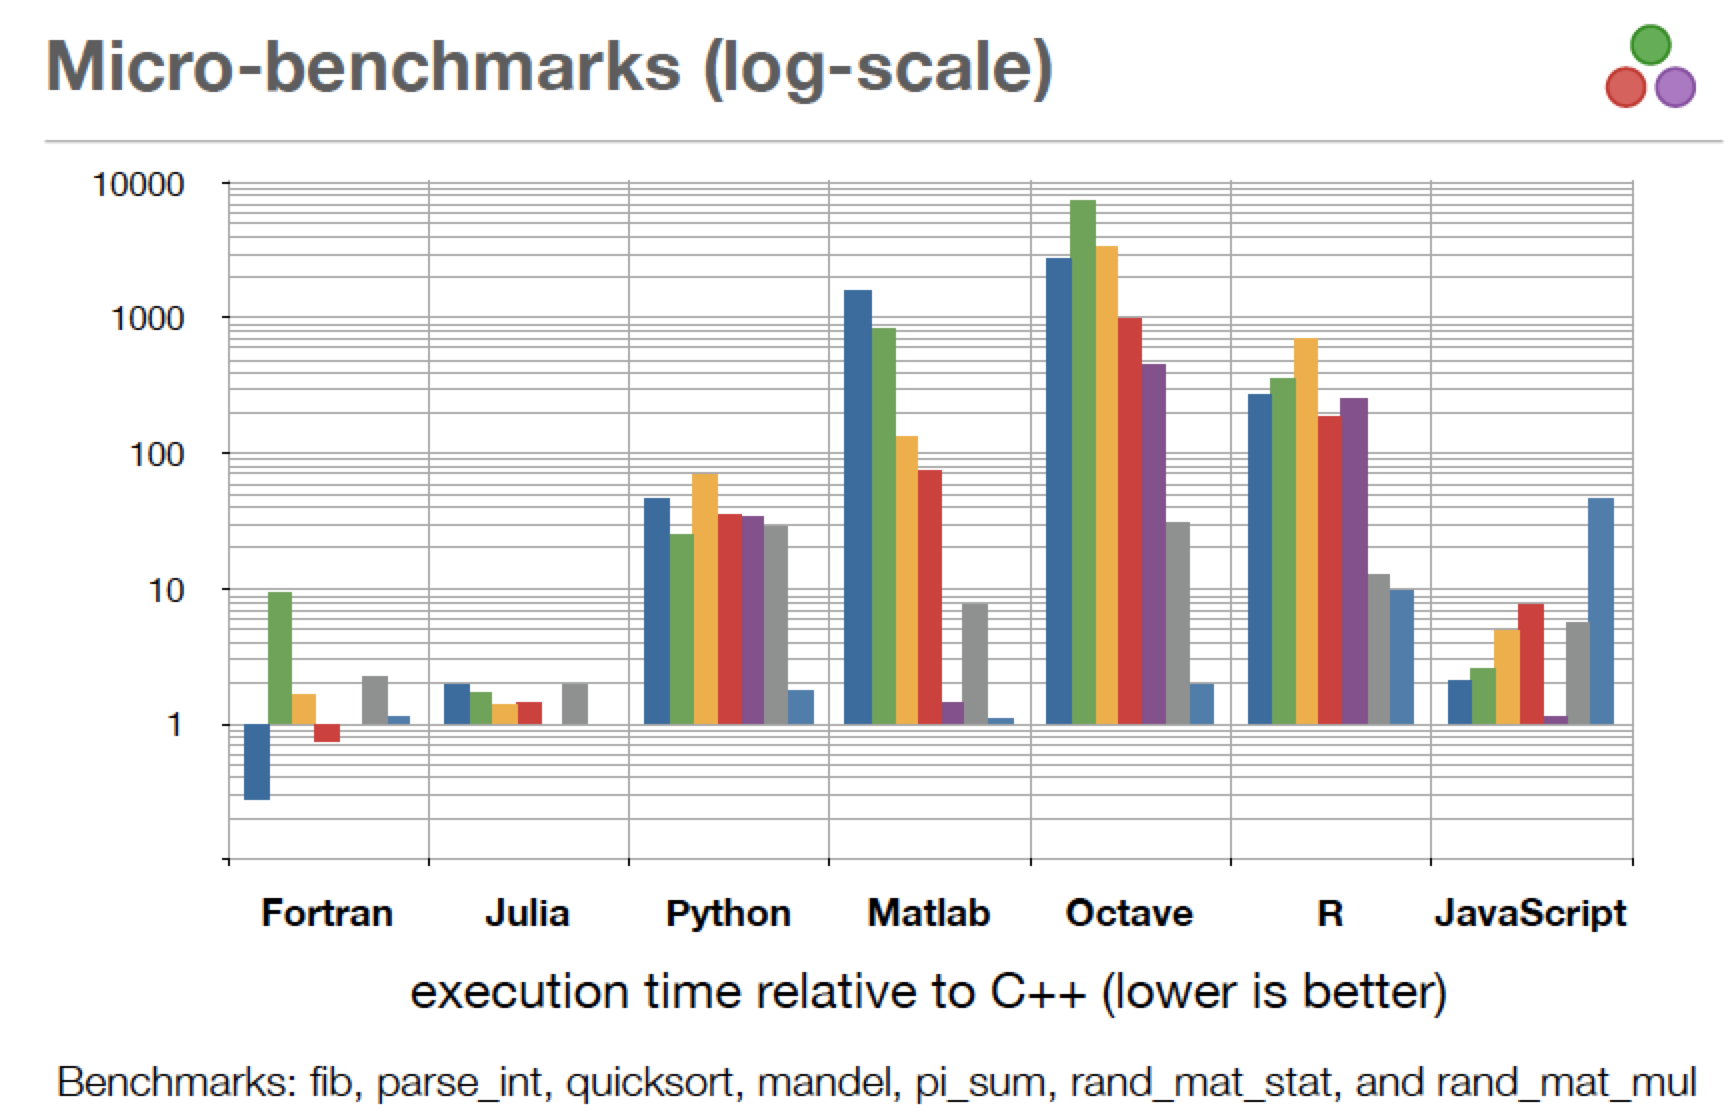
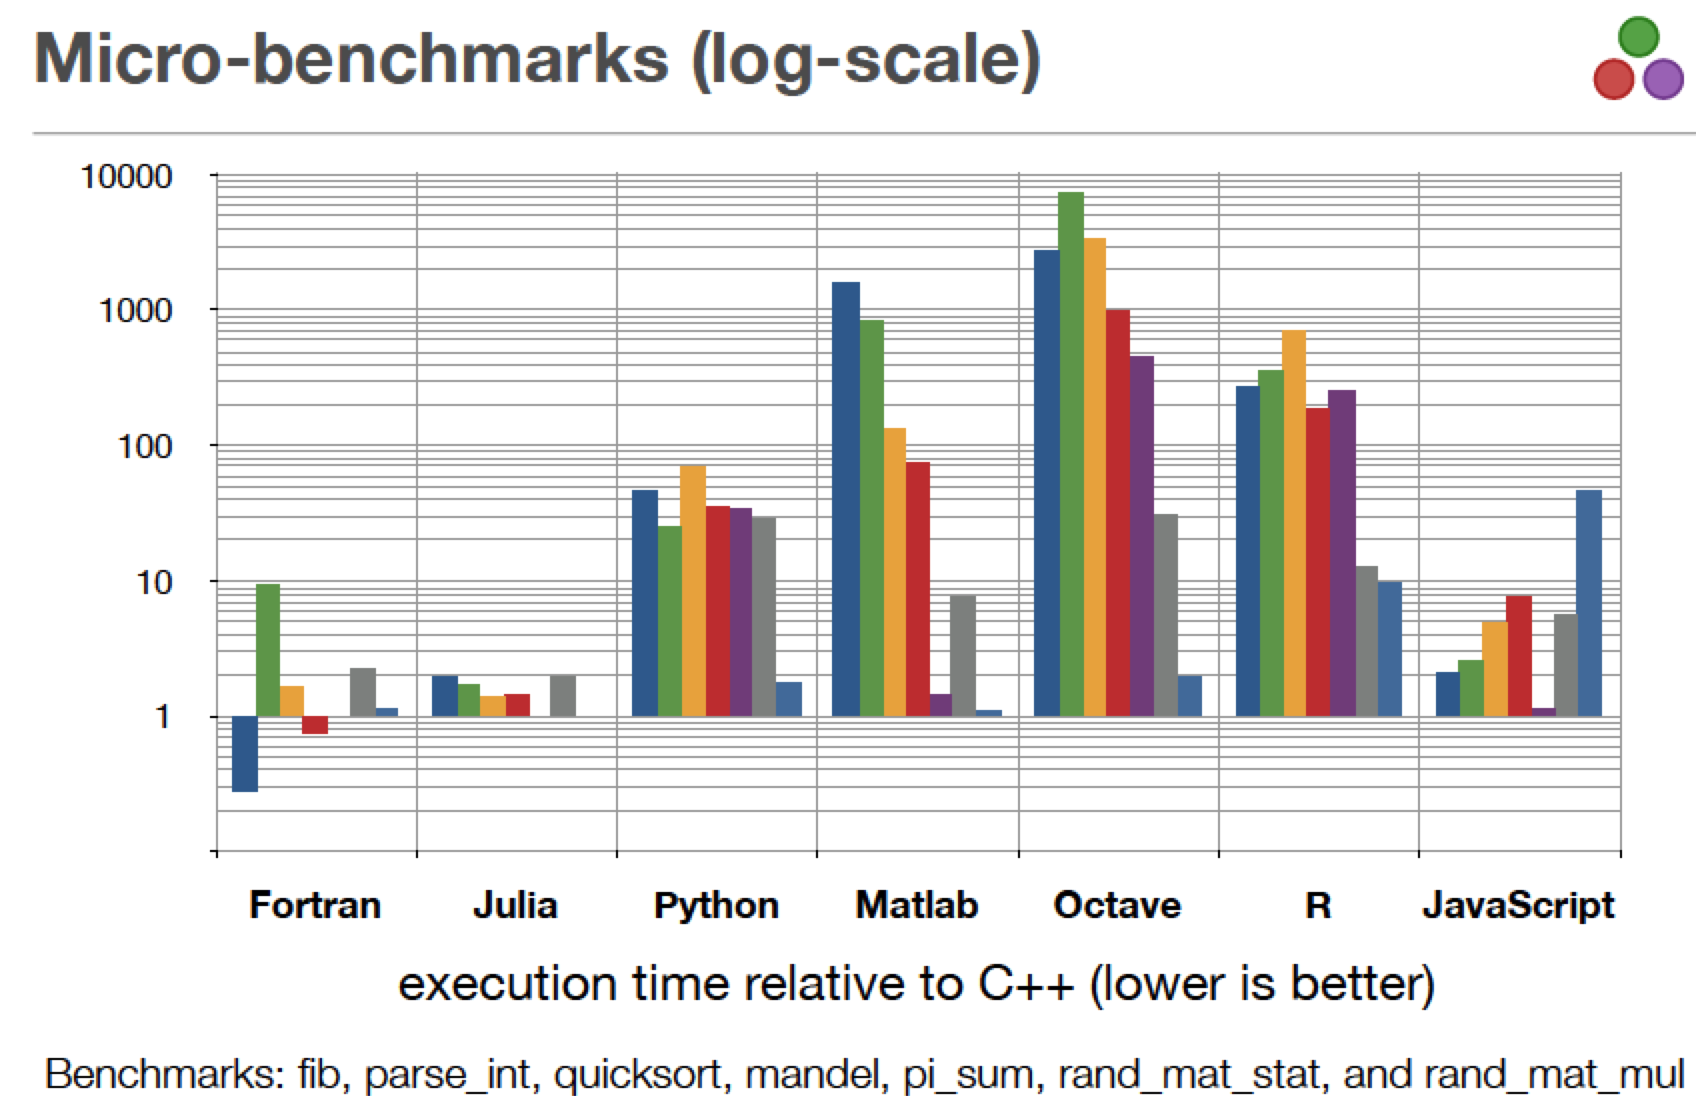
1

diff --git a/index.html b/index.html
@@ -10,7 +10,7 @@
     <script src="libs/panelset/panelset.js"></script>
     <link href="libs/tile-view/tile-view.css" rel="stylesheet" />
     <script src="libs/tile-view/tile-view.js"></script>
-    <script type="application/json" id="xaringanExtra-editable-docid">{"id":"xd49a03e88df47f3b848f0f8a11b4bd7","expires":1}</script>
+    <script type="application/json" id="xaringanExtra-editable-docid">{"id":"a60a21e1300f4c1dae23fb2195b56a7a","expires":1}</script>
     <script src="libs/himalaya/himalaya.js"></script>
     <script src="libs/js-cookie/js.cookie.js"></script>
     <link href="libs/editable/editable.css" rel="stylesheet" />
@@ -366,7 +366,7 @@ class: metroheader
 
 --
 &lt;div class="figure" style="text-align: center"&gt;
-&lt;img src="./loc-figs/Ly2.jpeg" alt="图 3: 编程语言性能比较(相对于C=1.0)" width="65%" /&gt;
+&lt;img src="./loc-figs/HPC-julia2.png" alt="图 3: 编程语言性能比较(相对于C=1.0)" width="65%" /&gt;
 &lt;p class="caption"&gt;图 3: 编程语言性能比较(相对于C=1.0)&lt;/p&gt;
 &lt;/div&gt;
 

diff --git a/library/metro-theme.css b/library/metro-theme.css
@@ -114,7 +114,7 @@ text-decoration:none;
 /* title-slide style */
 .title-slide {
   border-top: 0px solid;
-  background-image: url("../figures/slideCover.png");
+  background-image: url("../figures/statLogo-01.png");
   background-color: #FAFAFA;
   background-size: cover;
 }
